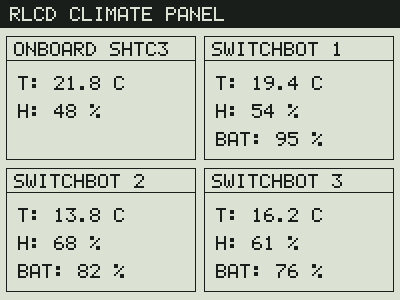
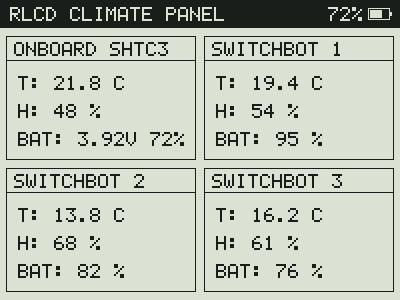
Add onboard battery monitoring and display indicators
Decode GPIO4 battery ADC voltage with 3.0x divider into 18650 charge percent.

Render battery icon in header bar and voltage readout in onboard sensor tile.

Add battery decoding host unit tests and update display preview.

diff --git a/rlcd_panel/dashboard_view.h b/rlcd_panel/dashboard_view.h
@@ -1,6 +1,7 @@
 #pragma once
 
 #include <stdio.h>
+#include "battery_monitor.h"
 #include "board_pins.h"
 #include "shtc3_sensor.h"
 #include "st7305_framebuffer.h"
@@ -10,6 +11,30 @@ namespace rlcd_panel {
 
 class DashboardView {
 public:
+  static void renderBatteryIcon(
+      St7305Framebuffer& fb,
+      uint16_t x,
+      uint16_t y,
+      int8_t percentage,
+      bool white_pixels = false) {
+    const bool pixel_color = !white_pixels;
+    // Outer battery body (22 x 12 px)
+    fb.drawRect(x, y, 22, 12, pixel_color);
+    // Positive terminal nipple (2 x 4 px)
+    fb.fillRect(x + 22, y + 4, 2, 4, pixel_color);
+
+    if (percentage > 0) {
+      uint16_t fill_w = static_cast<uint16_t>((percentage * 18) / 100);
+      if (fill_w == 0) {
+        fill_w = 1;
+      }
+      if (fill_w > 18) {
+        fill_w = 18;
+      }
+      fb.fillRect(x + 2, y + 2, fill_w, 8, pixel_color);
+    }
+  }
+
   static void renderTile(
       St7305Framebuffer& fb,
       uint16_t x,
@@ -20,7 +45,8 @@ public:
       bool valid,
       float temp_c,
       float humidity_pct,
-      int8_t battery_pct) {
+      int8_t battery_pct,
+      float battery_voltage_v = -1.0f) {
     fb.drawRect(x, y, w, h, true);
     fb.drawHLine(x, y + 24, w, true);
     fb.drawText(x + 8, y + 6, title, 2, true);
@@ -40,7 +66,16 @@ public:
 
     if (battery_pct >= 0) {
       char line_bat[24];
-      snprintf(line_bat, sizeof(line_bat), "BAT: %d %%", static_cast<int>(battery_pct));
+      if (battery_voltage_v >= 0.0f) {
+        snprintf(
+            line_bat,
+            sizeof(line_bat),
+            "BAT: %.2fV %d%%",
+            battery_voltage_v,
+            static_cast<int>(battery_pct));
+      } else {
+        snprintf(line_bat, sizeof(line_bat), "BAT: %d %%", static_cast<int>(battery_pct));
+      }
       fb.drawText(x + 12, y + 96, line_bat, 2, true);
     }
   }
@@ -48,18 +83,37 @@ public:
   static void render(
       St7305Framebuffer& fb,
       const Shtc3Reading& onboard,
+      const BatteryReading& battery,
       const SwitchBotReading* switchbot_slots,
       size_t switchbot_count) {
     fb.clear(false);
 
-    // Header bar
+    // Header bar (black filled rectangle)
     fb.fillRect(0, 0, RLCD_WIDTH, 28, true);
     fb.drawText(10, 7, "RLCD CLIMATE PANEL", 2, false);
+
+    // Header battery indicator on the right side
+    if (battery.valid) {
+      char bat_header[12];
+      if (battery.usb_powered) {
+        snprintf(bat_header, sizeof(bat_header), "USB");
+      } else if (battery.percentage >= 0) {
+        snprintf(bat_header, sizeof(bat_header), "%d%%", static_cast<int>(battery.percentage));
+      } else {
+        snprintf(bat_header, sizeof(bat_header), "--%%");
+      }
+
+      // Draw text right-aligned before battery icon
+      const size_t len = strlen(bat_header);
+      const uint16_t text_x = static_cast<uint16_t>(364 - (len * 12));
+      fb.drawText(text_x, 7, bat_header, 2, false);
+      renderBatteryIcon(fb, 368, 8, battery.percentage, true);
+    }
 
     const uint16_t tile_w = 190;
     const uint16_t tile_h = 124;
 
-    // Tile 0: Onboard SHTC3
+    // Tile 0: Onboard SHTC3 and 18650 Battery
     renderTile(
         fb,
         6,
@@ -70,7 +124,8 @@ public:
         onboard.valid,
         onboard.temperature_c,
         onboard.humidity_pct,
-        -1);
+        battery.percentage,
+        battery.valid ? battery.voltage_v : -1.0f);
 
     // Tiles 1..3: SwitchBot Outdoor Meters (WoIOSensor)
     for (size_t i = 0; i < MAX_SWITCHBOT_SENSORS; ++i) {

diff --git a/tests/test_firmware_logic.cpp b/tests/test_firmware_logic.cpp
@@ -3,6 +3,7 @@
 #include <stdio.h>
 #include <string.h>
 
+#include "../rlcd_panel/battery_monitor.h"
 #include "../rlcd_panel/board_pins.h"
 #include "../rlcd_panel/dashboard_view.h"
 #include "../rlcd_panel/shtc3_sensor.h"
@@ -175,6 +176,31 @@ void testShtc3Codec() {
   assert(!Shtc3Codec::decodeFrame(frame, sizeof(frame), out));
 }
 
+void testBatteryMonitorDecoding() {
+  assert(BatteryMonitor::voltageToPercent(4.20f) == 100);
+  assert(BatteryMonitor::voltageToPercent(4.30f) == 100);
+  assert(BatteryMonitor::voltageToPercent(3.70f) == 50);
+  assert(BatteryMonitor::voltageToPercent(3.20f) == 0);
+  assert(BatteryMonitor::voltageToPercent(3.10f) == 0);
+  assert(BatteryMonitor::voltageToPercent(0.20f) == -1);
+
+  // ADC = 1400 mV * 3.0 = 4200 mV -> 4.20 V, 100%
+  const BatteryReading full = BatteryMonitor::decodeMillivolts(1400);
+  assert(full.valid);
+  assert(approxEqual(full.voltage_v, 4.20f, 0.01f));
+  assert(full.percentage == 100);
+  assert(!full.usb_powered);
+
+  // ADC = 1450 mV * 3.0 = 4350 mV -> 4.35 V, usb_powered = true
+  const BatteryReading usb = BatteryMonitor::decodeMillivolts(1450);
+  assert(usb.valid);
+  assert(usb.usb_powered);
+
+  // ADC = 100 mV * 3.0 = 300 mV -> invalid (< 0.5V)
+  const BatteryReading empty = BatteryMonitor::decodeMillivolts(100);
+  assert(!empty.valid);
+}
+
 void testDashboardViewRendering() {
   St7305Framebuffer fb;
   Shtc3Reading onboard;
@@ -182,13 +208,18 @@ void testDashboardViewRendering() {
   onboard.temperature_c = 22.0f;
   onboard.humidity_pct = 50.0f;
 
+  BatteryReading battery;
+  battery.valid = true;
+  battery.voltage_v = 3.85f;
+  battery.percentage = 65;
+
   SwitchBotReading slots[MAX_SWITCHBOT_SENSORS];
   slots[0].valid = true;
   slots[0].temperature_c = 19.5f;
   slots[0].humidity_pct = 55;
   slots[0].battery_pct = 90;
 
-  DashboardView::render(fb, onboard, slots, MAX_SWITCHBOT_SENSORS);
+  DashboardView::render(fb, onboard, battery, slots, MAX_SWITCHBOT_SENSORS);
 
   // Top header bar (y in 0..27) must contain active black pixels
   bool header_pixels_found = false;
@@ -201,7 +232,7 @@ void testDashboardViewRendering() {
   assert(header_pixels_found);
 
   // Null slots gracefully handled without crash
-  DashboardView::render(fb, onboard, nullptr, 0);
+  DashboardView::render(fb, onboard, battery, nullptr, 0);
   assert(header_pixels_found);
 }
 
@@ -214,7 +245,8 @@ int main() {
   testSwitchBotServiceBatteryAndRegistry();
   testSt7305FramebufferPixelMapping();
   testShtc3Codec();
+  testBatteryMonitorDecoding();
   testDashboardViewRendering();
-  printf("All 7 firmware logic test suites passed.\n");
+  printf("All 8 firmware logic test suites passed.\n");
   return 0;
 }

diff --git a/rlcd_panel/battery_monitor.h b/rlcd_panel/battery_monitor.h
@@ -1,0 +1,57 @@
+#pragma once
+
+#include <stdint.h>
+#include "board_pins.h"
+
+#ifdef ARDUINO
+#include <Arduino.h>
+#endif
+
+namespace rlcd_panel {
+
+struct BatteryReading {
+  bool valid = false;
+  float voltage_v = 0.0f;
+  int8_t percentage = -1; // 0..100%, or -1 if invalid
+  bool usb_powered = false;
+};
+
+class BatteryMonitor {
+public:
+  // Standard single-cell Li-ion (18650) threshold voltages
+  static constexpr float V_EMPTY = 3.20f;
+  static constexpr float V_FULL  = 4.20f;
+
+  static int8_t voltageToPercent(float voltage_v) {
+    if (voltage_v <= 0.5f) {
+      return -1; // No battery connected or reading invalid
+    }
+    if (voltage_v <= V_EMPTY) {
+      return 0;
+    }
+    if (voltage_v >= V_FULL) {
+      return 100;
+    }
+    const float pct = ((voltage_v - V_EMPTY) / (V_FULL - V_EMPTY)) * 100.0f;
+    return static_cast<int8_t>(pct + 0.5f);
+  }
+
+  static BatteryReading decodeMillivolts(uint32_t adc_millivolts) {
+    BatteryReading r;
+    r.voltage_v = (static_cast<float>(adc_millivolts) * BAT_VOLTAGE_DIVIDER_RATIO) / 1000.0f;
+    r.percentage = voltageToPercent(r.voltage_v);
+    r.usb_powered = (r.voltage_v >= 4.25f);
+    r.valid = (r.voltage_v > 0.5f);
+    return r;
+  }
+
+#ifdef ARDUINO
+  static BatteryReading read() {
+    // analogReadMilliVolts utilizes ESP32-S3 eFuse factory calibration curve
+    const uint32_t raw_mv = analogReadMilliVolts(PIN_BAT_ADC);
+    return decodeMillivolts(raw_mv);
+  }
+#endif
+};
+
+} // namespace rlcd_panel

diff --git a/tools/render_display_preview.cpp b/tools/render_display_preview.cpp
@@ -3,6 +3,7 @@
 #include <stdlib.h>
 #include <string.h>
 
+#include "../rlcd_panel/battery_monitor.h"
 #include "../rlcd_panel/board_pins.h"
 #include "../rlcd_panel/dashboard_view.h"
 #include "../rlcd_panel/shtc3_sensor.h"
@@ -123,7 +124,13 @@ int main(int argc, char** argv) {
   slots[2].humidity_pct = 61;
   slots[2].battery_pct = 76;
 
-  DashboardView::render(fb, onboard, slots, MAX_SWITCHBOT_SENSORS);
+  BatteryReading battery;
+  battery.valid = true;
+  battery.voltage_v = 3.92f;
+  battery.percentage = 72;
+  battery.usb_powered = false;
+
+  DashboardView::render(fb, onboard, battery, slots, MAX_SWITCHBOT_SENSORS);
 
   if (!exportFramebufferToBmp(fb, out_path)) {
     return 1;

diff --git a/README.md b/README.md
@@ -17,7 +17,7 @@ Standalone `Arduino CLI` (`ESP32-S3`) firmware for the **Waveshare ESP32-S3-RLCD
 | **Shared I²C Bus** | `SHTC3` (`0x70`), `PCF85063A` (`0x51`), `ES8311` (`0x18`), `ES7210` (`0x40`) | `SDA` / `SCL` | `GPIO13` / `GPIO14` | Shared internal and rear-header I²C bus |
 | **MicroSD Card** | `SD_MMC` (1-bit mode) | `CLK` / `CMD` / `D0` | `GPIO38` / `GPIO21` / `GPIO39` | Call `SD_MMC.setPins(38, 21, 39)` before `SD_MMC.begin("/sdcard", true)` |
 | **Audio I²S** | `ES8311` / `ES7210` | `DOUT` / `BCLK` / `DIN` / `MCLK` / `LRCLK` / `PA_CTRL` | `GPIO8` / `GPIO9` / `GPIO10` / `GPIO16` / `GPIO45` / `GPIO46` | Speaker DAC and dual-microphone array |
-| **Buttons & Battery** | Onboard | `BOOT` / `KEY` / `BAT_ADC` | `GPIO0` / `GPIO18` / `GPIO4` | Buttons active-low; battery voltage divider `3.0×` |
+| **Buttons & Battery** | Onboard | `BOOT` / `KEY` / `BAT_ADC` | `GPIO0` / `GPIO18` / `GPIO4` | Buttons active-low; battery voltage divider `3.0×` (monitored in header bar and onboard tile) |
 
 ## Rear 2×8 Expansion Header Layout
 

diff --git a/AGENTS.md b/AGENTS.md
@@ -8,6 +8,7 @@
 
 - `rlcd_panel/sketch.yaml`: Pinned `arduino-cli` build profile `rlcd_panel_s3` (`esp32:esp32:esp32s3:CDCOnBoot=cdc,FlashSize=16M,PSRAM=opi,PartitionScheme=app3M_fat9M_16MB` on `esp32:esp32@3.3.12`).
 - `rlcd_panel/board_pins.h`: Hardware GPIO constants and I²C addresses for `ESP32-S3-RLCD-4.2`.
+- `rlcd_panel/battery_monitor.h`: 18650 Li-ion battery voltage and percentage decoder (`GPIO4` ADC1_CH3 with 3.0× divider).
 - `rlcd_panel/switchbot_ble.h`: Header-only BLE parser (`Company ID 0x0969` Manufacturer Data + `UUID 0xFD3D` Service Data) and 3-slot sensor registry.
 - `rlcd_panel/st7305_framebuffer.h`: Header-only 400×300 1-bpp framebuffer (`15,000` bytes) with `ST7305` 2×4 block pixel packing and 5×7 text primitives.
 - `rlcd_panel/st7305_panel.h`: ESP32-S3 hardware SPI driver for the `ST7305` RLCD controller.
